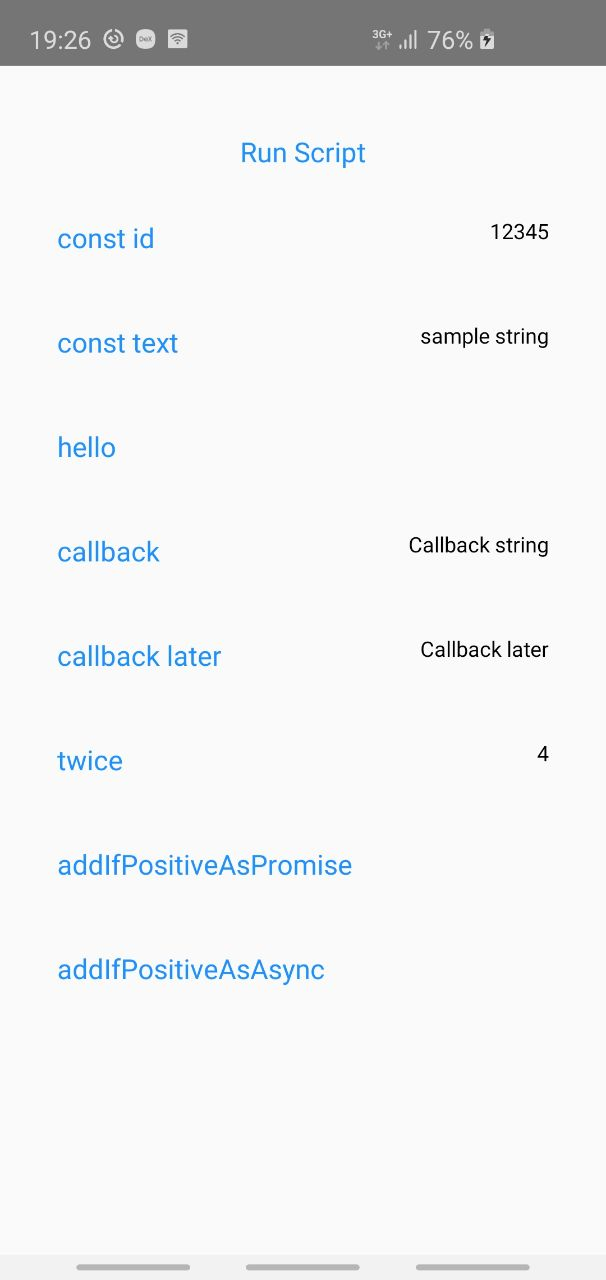
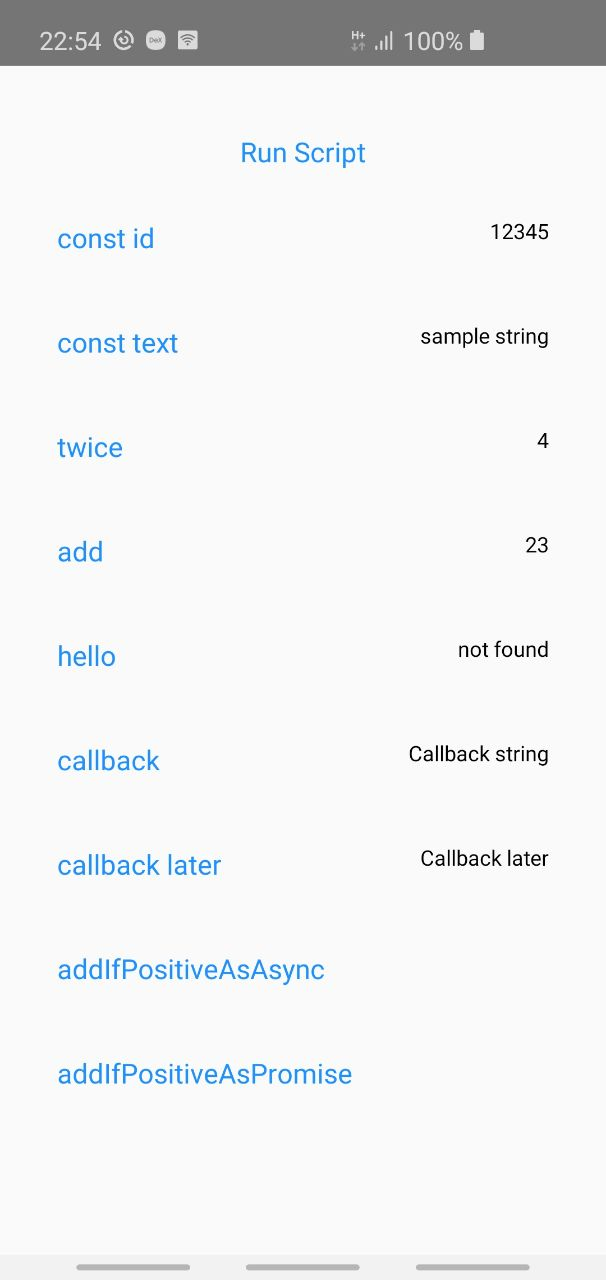
add in native modules methods and callback js

diff --git a/src/screens/App.js b/src/screens/App.js
@@ -1,4 +1,4 @@
-import React, {Component} from 'react';
+import React, {PureComponent} from 'react';
 import {
   SafeAreaView,
   View,
@@ -18,24 +18,23 @@ const spyFunction = msg => {
 
 MessageQueue.spy(spyFunction);
 
-class App extends Component {
+const Bridge = NativeModules.CustomCxxModule;
+
+class App extends PureComponent {
   constructor() {
     super();
     this.handleRequestModule = this.handleRequestModule.bind(this);
-
     this.state = {
-      //constant
       id: null,
       text: null,
-      //error log
       error: null,
-      //function params
-      sampleString: null,
+      sampleAdd: null,
       sampleTwice: null,
-      sampleCallbackString: null,
-      sampleCallbackLater: null,
+      sampleString: null,
       sampleAsAsync: null,
       sampleAsPromise: null,
+      sampleCallbackLater: null,
+      sampleCallbackString: null,
     };
   }
 
@@ -44,56 +43,62 @@ class App extends Component {
     try {
       await this.getConstantModule();
       await this.getFunctionModule();
-    } catch (err) {
-      this.setState({error: err || 'Error callback in C++ Native Module'});
+    } catch (errors) {
+      this.setState({error: errors || 'Error callback in C++ Native Module'});
     }
   };
 
   getConstantModule = () => {
     //* TODO get constant Native Modules
-
-    let getId = NativeModules.CustomCxxModule.constId;
-    let getText = NativeModules.CustomCxxModule.constText;
-    this.setState({id: getId, text: getText});
+    this.setState({
+      id: Bridge.constId || 'not found',
+      text: Bridge.constText || 'not found',
+    });
   };
 
   getFunctionModule = () => {
     //* TODO get Methods Native Modules
-    let getHello = NativeModules.CustomCxxModule.hello();
-    this.setState({sampleString: getHello})
-
-    NativeModules.CustomCxxModule.getString(result => {
-      this.setState({sampleCallbackString: result});
+    this.setState({
+      sampleTwice: Bridge.twice(2) || 'not found',
+      sampleString: Bridge.hello() || 'not found',
     });
 
-    NativeModules.CustomCxxModule.call_later(2000, result => {
-      this.setState({sampleCallbackLater: result});
+    Bridge.getString(result => {
+      this.setState({sampleCallbackString: result || 'not found'});
     });
 
-    let getTwice = NativeModules.CustomCxxModule.twice(2);
-    this.setState({sampleTwice: getTwice})
+    Bridge.call_later(2000, (result, error) => {
+      this.setState({sampleCallbackLater: result || 'not found'});
+    });
 
-    // NativeModules.CustomCxxModule.addIfPositiveAsPromise(0, (error, result) => {
-    //   this.setState({sampleAsPromise: result});
+    Bridge.add(10, 13, (result, error) => {
+      this.setState({sampleAdd: result || 'not found'});
+    });
+
+    Bridge.getEvent();
+
+    //* TODO Need fixing params
+
+    // Bridge.addIfPositiveAsPromise(0, (result, error) => {
+    //   this.setState({sampleAsPromise: result || 'not found'});
     // });
     //
-    // NativeModules.CustomCxxModule.addIfPositiveAsAsync(0, (error, result) => {
-    //   this.setState({sampleAsAsync: result});
+    // Bridge.addIfPositiveAsAsync(0, (result, error) => {
+    //   this.setState({sampleAsAsync: result || 'not found'});
     // });
-
-    NativeModules.CustomCxxModule.getEvent();
   };
 
   render() {
     const {id, text} = this.state;
     const {
       error,
-      sampleCallbackString,
-      sampleCallbackLater,
+      sampleAdd,
       sampleTwice,
       sampleString,
-      sampleAsPromise,
       sampleAsAsync,
+      sampleAsPromise,
+      sampleCallbackLater,
+      sampleCallbackString,
     } = this.state;
     return (
       <SafeAreaView style={styles.container}>
@@ -106,12 +111,13 @@ class App extends Component {
           <View>
             <Card title="const id" description={id} />
             <Card title="const text" description={text} />
+            <Card title="twice" description={sampleTwice} />
+            <Card title="add" description={sampleAdd} />
             <Card title="hello" description={sampleString} />
             <Card title="callback" description={sampleCallbackString} />
             <Card title="callback later" description={sampleCallbackLater} />
-            <Card title="twice" description={sampleTwice} />
-            <Card title="addIfPositiveAsPromise" description={sampleAsPromise} />
             <Card title="addIfPositiveAsAsync" description={sampleAsAsync} />
+            <Card title="addIfPositiveAsPromise" description={sampleAsPromise} />
           </View>
         )
          : (

diff --git a/src/component/Card.js b/src/component/Card.js
@@ -2,17 +2,20 @@ import React, {memo} from 'react';
 import {View, Text} from 'react-native';
 import styles from '../styles';
 
-const Card = memo(({title, description}) => (
-  <View style={styles.content}>
-    <View style={styles.containerText}>
-      <View style={styles.contentText}>
-        <Text numberOfLines={1} style={styles.h2}>
-          {title}
-        </Text>
+const Card = memo(
+  ({title, description}) =>
+    title && (
+      <View style={styles.content}>
+        <View style={styles.containerText}>
+          <View style={styles.contentText}>
+            <Text numberOfLines={1} style={styles.h2}>
+              {title}
+            </Text>
+          </View>
+          <Text style={styles.desc}>{description}</Text>
+        </View>
       </View>
-      <Text style={styles.desc}>{description}</Text>
-    </View>
-  </View>
-));
+    ),
+);
 
 export default Card;

diff --git a/src/cxx/CustomCxxModule.cpp b/src/cxx/CustomCxxModule.cpp
@@ -4,7 +4,6 @@
 #include "cxxreact/Instance.h"
 
 #include <folly/Memory.h>
-//#include <glog/logging.h>
 
 
 #include <thread>
@@ -24,26 +23,18 @@ double Sample::twice(double n) {
   return n * 2;
 }
 
-// std::string Sample::concat(const std::string &a, const std::string &b) {
-//   return a + b;
-// }
+double Sample::add(double a, double b) {
+  return a + b;
+}
 
-// std::string Sample::repeat(int count, const std::string &str) {
-//   std::string ret;
-//   for (int i = 0; i < count; i++) {
-//     ret += str;
-//   }
-//
-//   return ret;
-// }
 
-// void Sample::save(std::map<std::string, std::string> dict) {
-//   state_ = std::move(dict);
-// }
-//
-// std::map<std::string, std::string> Sample::load() {
-//   return state_;
-// }
+void Sample::save(std::map<std::string, std::string> dict) {
+  state_ = std::move(dict);
+}
+
+std::map<std::string, std::string> Sample::load() {
+  return state_;
+}
 
 void Sample::call_later(int msec, std::function<void()> f) {
   std::thread t([=] {
@@ -61,66 +52,56 @@ auto CustomCxxModule::getConstants() -> std::map<std::string, folly::dynamic> {
 
 auto CustomCxxModule::getMethods() -> std::vector<Method> {
   return {
-        Method("getEvent",
-             [this]() {
-               if (auto reactInstance = getInstance().lock()) {
-                 reactInstance->callJSFunction(
-                     "RCTDeviceEventEmitter", "emit",
-                     folly::dynamic::array(
-                         "appStateDidChange",
-                         folly::dynamic::object("app_state", "active")));
-               }
-             }),
-        Method("getString", []     (folly::dynamic args, Callback cb){cb({"Callback string"});}),
-        Method("twice",     [this] (folly::dynamic args) -> folly::dynamic {
-                            return sample_->twice(facebook::xplat::jsArgAsDouble(args, 0));
-                            },SyncTag),
+        Method("getEvent", [this]() { if (auto reactInstance = getInstance().lock()) {
+         reactInstance->callJSFunction( "RCTDeviceEventEmitter", "emit",
+                 folly::dynamic::array("appStateDidChange",folly::dynamic::object("app_state", "active")));
+           }
+         }),
+
+        Method("getString", [] (folly::dynamic args, Callback callbacks) {
+          callbacks({"Callback string"});
+        }),
+
+        Method("add", [this](folly::dynamic args, Callback callbacks) {
+           callbacks({sample_->add(facebook::xplat::jsArgAsDouble(args, 0), facebook::xplat::jsArgAsDouble(args, 1))});
+         }),
         Method("hello", [this] { sample_->hello(); }),
-        Method(
-        "syncHello",
-        [this]() -> folly::dynamic {
+
+        Method("twice", [this] (folly::dynamic args) -> folly::dynamic {
+          return sample_->twice(facebook::xplat::jsArgAsDouble(args, 0));
+        } ,SyncTag),
+
+        Method("syncHello", [this]() -> folly::dynamic {
           sample_->hello();
           return nullptr;
         },
         SyncTag),
-        Method("call_later", [this](folly::dynamic args, Callback cb) {
-           sample_->call_later((int)facebook::xplat::jsArgAsDouble(args, 0), [cb] { cb({"Callback later"}); });
+
+        Method("call_later", [this](folly::dynamic args, Callback callbacks) {
+           sample_->call_later((int)facebook::xplat::jsArgAsDouble(args, 0), [callbacks] { callbacks({"Callback later"}); });
          }),
-         Method(
-        "addIfPositiveAsPromise",
-        [](folly::dynamic args, Callback cb, Callback cbError) {
+
+        Method("addIfPositiveAsPromise", [] (folly::dynamic args, Callback callbacks, Callback callbacksError) {
           auto a = facebook::xplat::jsArgAsDouble(args, 0);
           auto b = facebook::xplat::jsArgAsDouble(args, 1);
           if (a < 0 || b < 0) {
-            cbError({"Negative number!"});
+            callbacksError({"Negative number!"});
           } else {
-            cb({a + b});
+            callbacks({a + b});
           }
         }),
-    Method(
-        "addIfPositiveAsAsync",
-        [](folly::dynamic args, Callback cb, Callback cbError) {
-          auto a = facebook::xplat::jsArgAsDouble(args, 0);
-          auto b = facebook::xplat::jsArgAsDouble(args, 1);
-          if (a < 0 || b < 0) {
-            cbError({"Negative number!"});
-          } else {
-            cb({a + b});
-          }
-        },
-        AsyncTag),
-         // Method(
-         //  "concat",
-         //  [this](folly::dynamic args, Callback cb) {
-         //    cb({sample_->concat(
-         //        facebook::xplat::jsArgAsString(args, 0), facebook::xplat::jsArgAsString(args, 1))});
-         //  }),
-         // Method(
-         //  "repeat",
-         //  [this](folly::dynamic args, Callback cb) {
-         //    cb({sample_->repeat(
-         //        (int)facebook::xplat::jsArgAsInt(args, 0), facebook::xplat::jsArgAsString(args, 1))});
-         //  }),
+
+        Method("addIfPositiveAsAsync", [] (folly::dynamic args, Callback callbacks, Callback callbacksError) {
+              auto a = facebook::xplat::jsArgAsDouble(args, 0);
+              auto b = facebook::xplat::jsArgAsDouble(args, 1);
+              if (a < 0 || b < 0) {
+                callbacksError({"Negative number!"});
+              } else {
+                callbacks({a + b});
+              }
+            },
+            AsyncTag),
+
          // Method("save", this, &CustomCxxModule::save),
          // Method("load", this, &CustomCxxModule::load),
       };
@@ -136,12 +117,12 @@ auto CustomCxxModule::getMethods() -> std::vector<Method> {
 //   sample_->save(std::move(m));
 // }
 //
-// void CustomCxxModule::load(__unused folly::dynamic args, Callback cb) {
+// void CustomCxxModule::load(__unused folly::dynamic args, Callback callbacks) {
 //   folly::dynamic d = folly::dynamic::object;
 //   for (const auto &p : sample_->load()) {
 //     d.insert(p.first, p.second);
 //   }
-//   cb({d});
+//   callbacks({d});
 // }
 
 extern "C" CustomCxxModule* createSampleCxxModule() {

diff --git a/src/cxx/CustomCxxModule.h b/src/cxx/CustomCxxModule.h
@@ -6,11 +6,11 @@ class Sample {
 public:
   std::string hello();
   double twice(double n);
+  double add(double a, double b);
   void call_later(int msec, std::function<void()> f);
-  // void save(std::map<std::string, std::string> dict);
-  // std::map<std::string, std::string> load();
-  // std::string concat(const std::string &a, const std::string &b);
-  // std::string repeat(int count, const std::string &str);
+  void save(std::map<std::string, std::string> dict);
+  std::map<std::string, std::string> load();
+  std::string repeat(double count, const std::string &str);
 
 private:
  std::map<std::string, std::string> state_;
